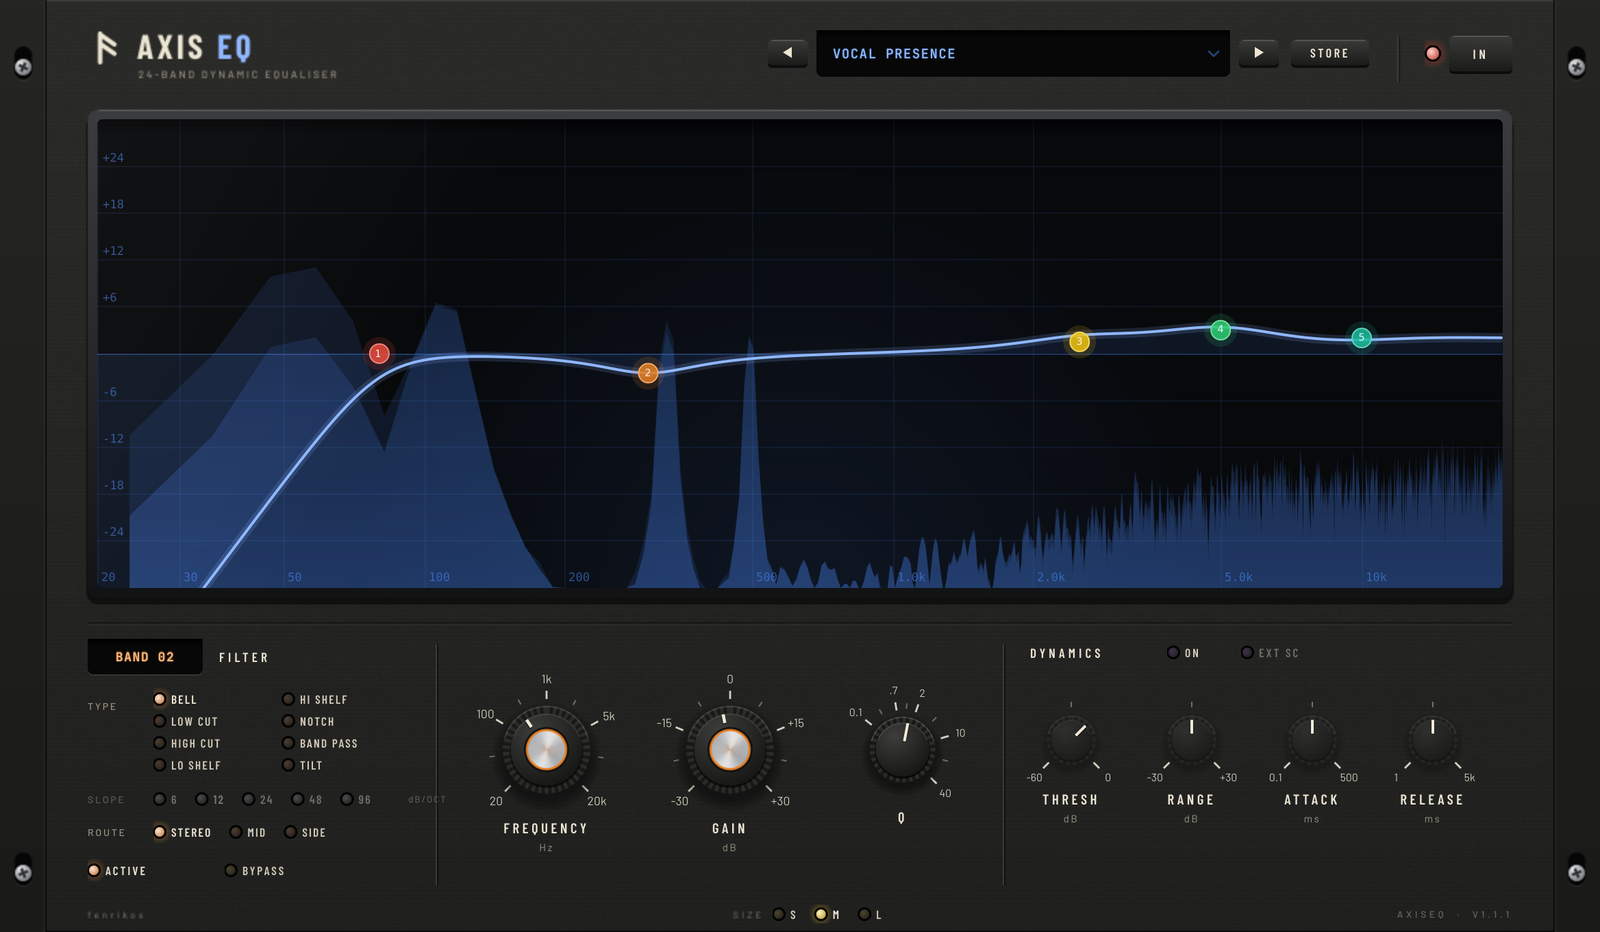
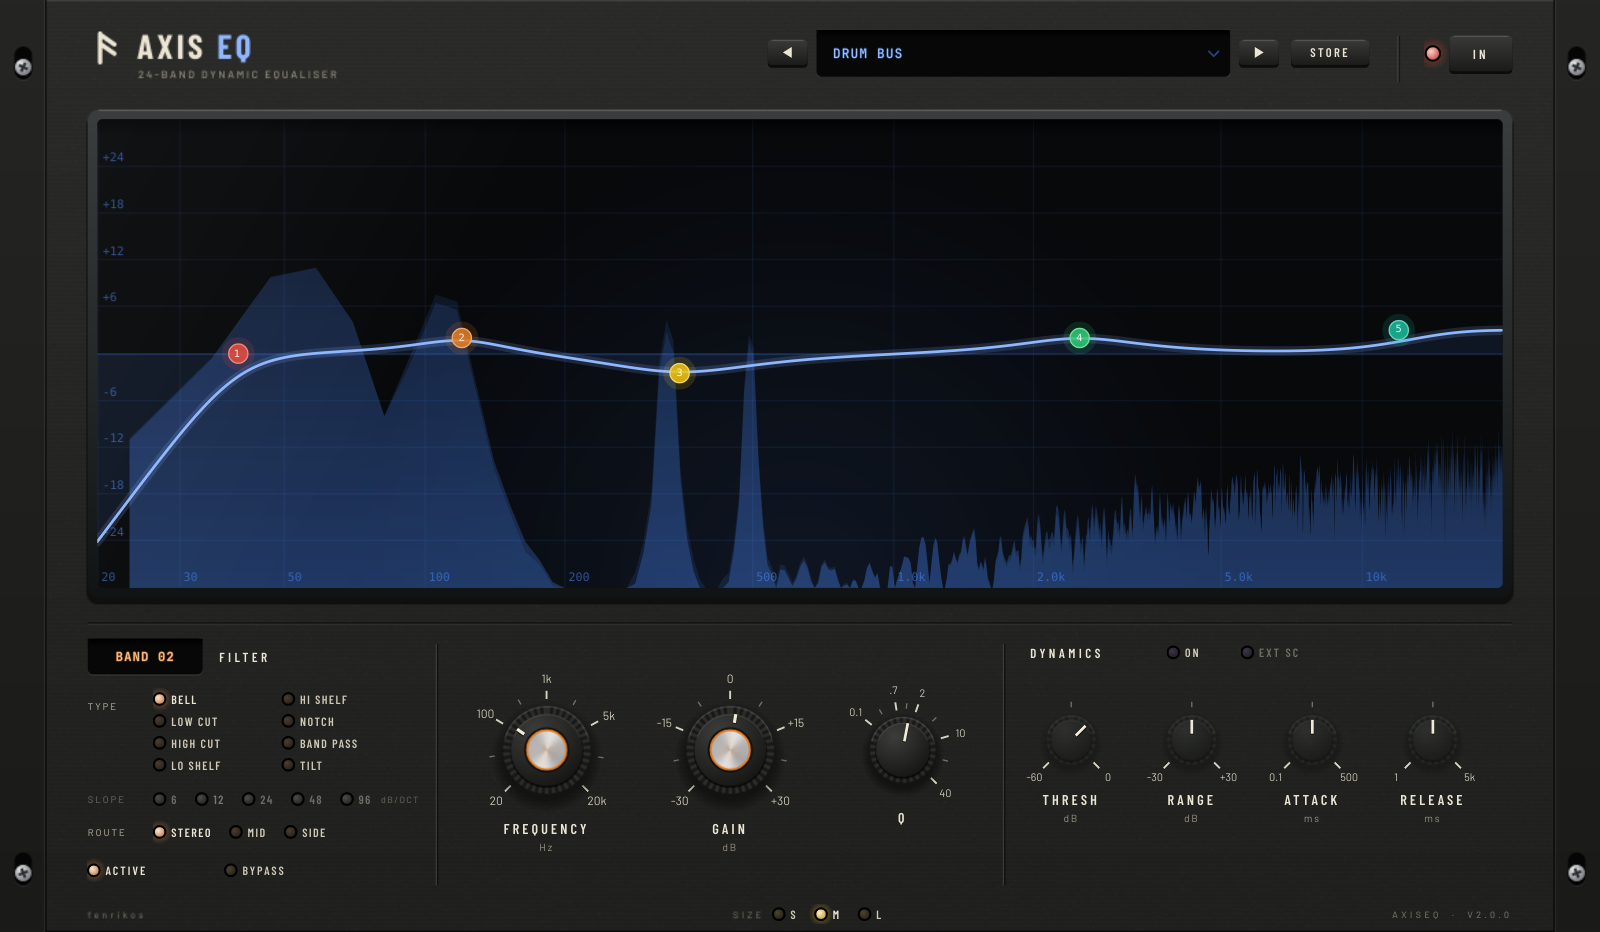
AxisEQ 2.0.0: version, changelog, new screenshot; fix the mis-decoded dot in the empty-panel hint

diff --git a/Source/GUI/ControlPanelComponent.cpp b/Source/GUI/ControlPanelComponent.cpp
@@ -137,7 +137,7 @@ void ControlPanelComponent::paint(juce::Graphics& g)
     using namespace rackui;
     if (currentBandIndex < 0)
     {
-        print(g, "CLICK THE SCREEN TO ADD A BAND   ·   RIGHT-CLICK TO BYPASS   ·   DOUBLE-CLICK TO REMOVE",
+        print(g, juce::String::fromUTF8 ("CLICK THE SCREEN TO ADD A BAND   \xc2\xb7   RIGHT-CLICK TO BYPASS   \xc2\xb7   DOUBLE-CLICK TO REMOVE"),
               getLocalBounds().toFloat(), Face::legend, 12.0f, 0.16f, colour::inkDim);
         return;
     }
